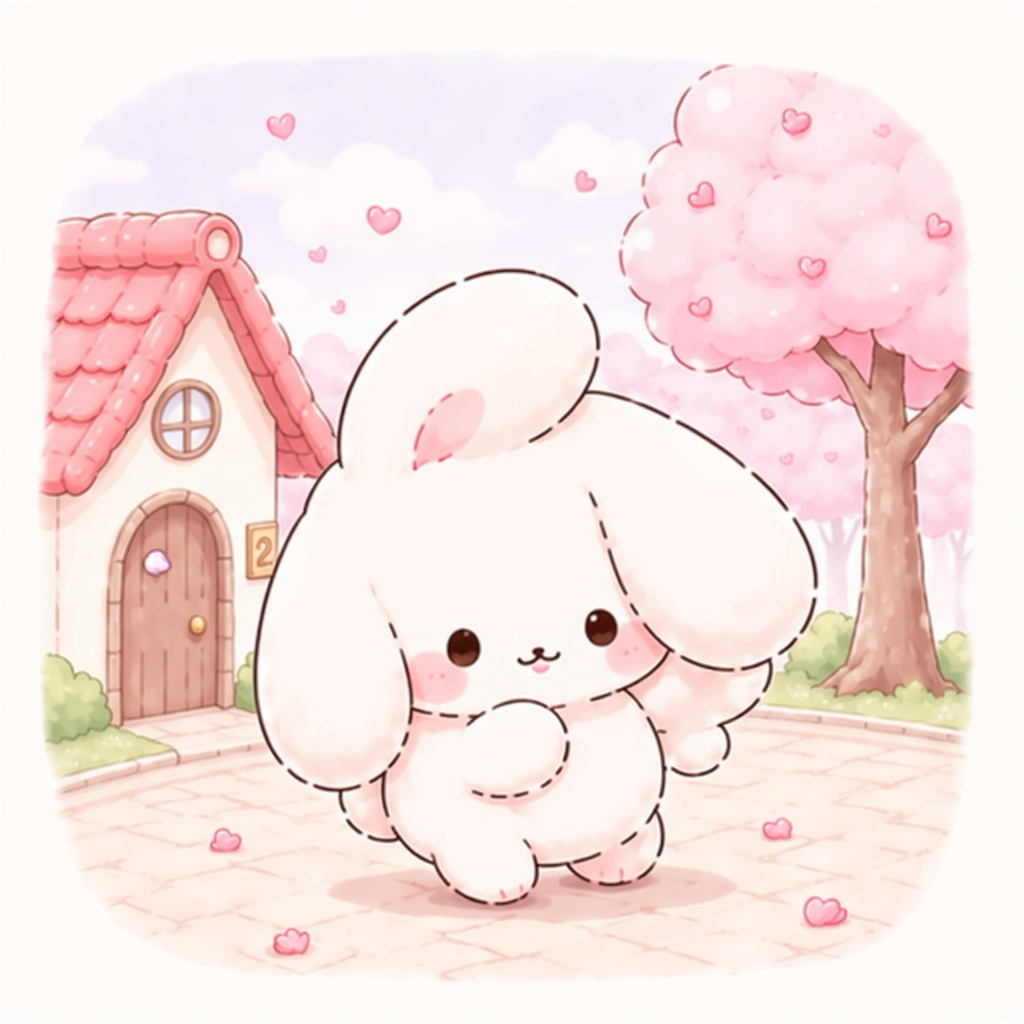
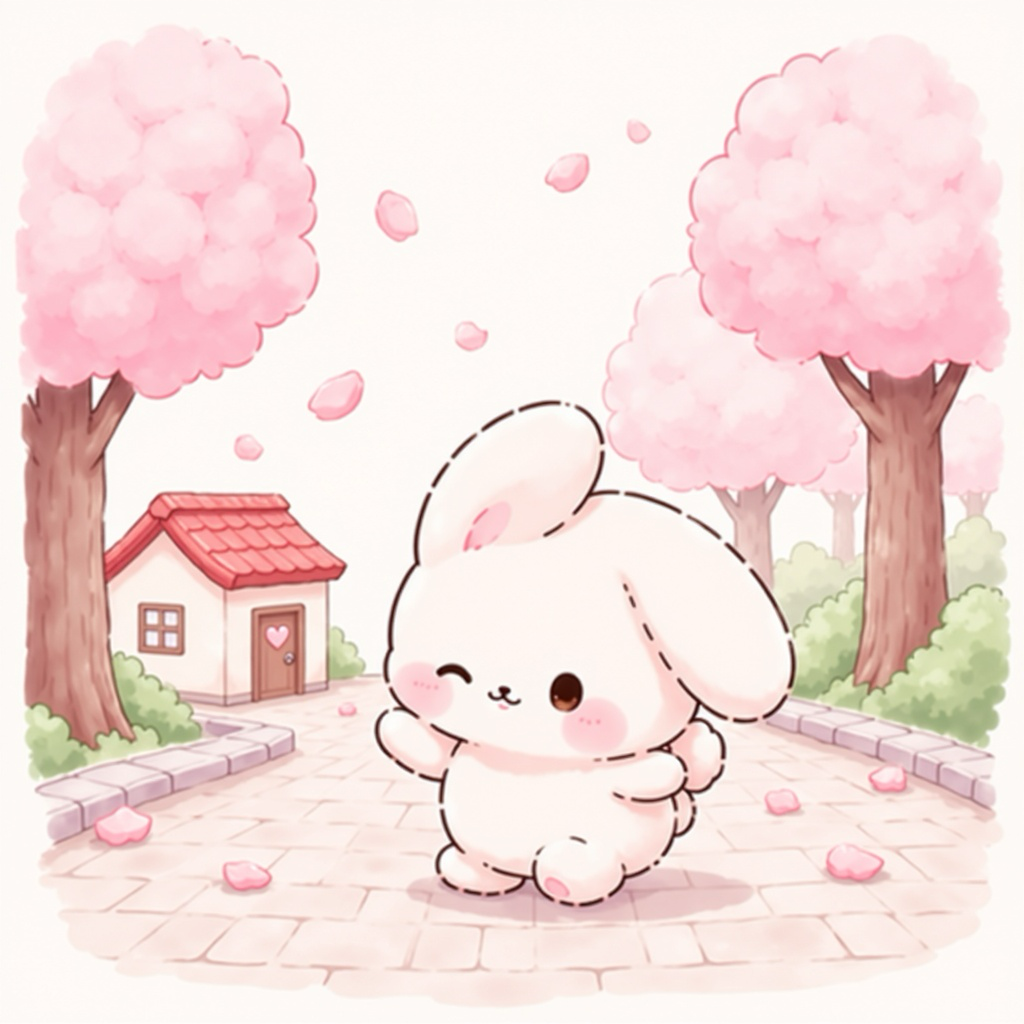
fix: 토우리 마을 아이콘 귀 두 개로 재생성

diff --git a/lib/screens/menu_screen.dart b/lib/screens/menu_screen.dart
@@ -165,7 +165,7 @@ class _MenuScreenState extends State<MenuScreen> {
       // 🏠 토우리 마을 — RPG (포켓몬 도트 + 모던 UI)
       _MenuItem(
         image: 'assets/character/menu_icons/village.png',
-        imageUrl: 'assets/assets/character/menu_icons/village.png?v=233a88c',
+        imageUrl: 'assets/assets/character/menu_icons/village.png?v=two-ear-20260611',
         label: '토우리 마을 🏠',
         accent: TouriColors.lilac,
         onTap: _openRpg,